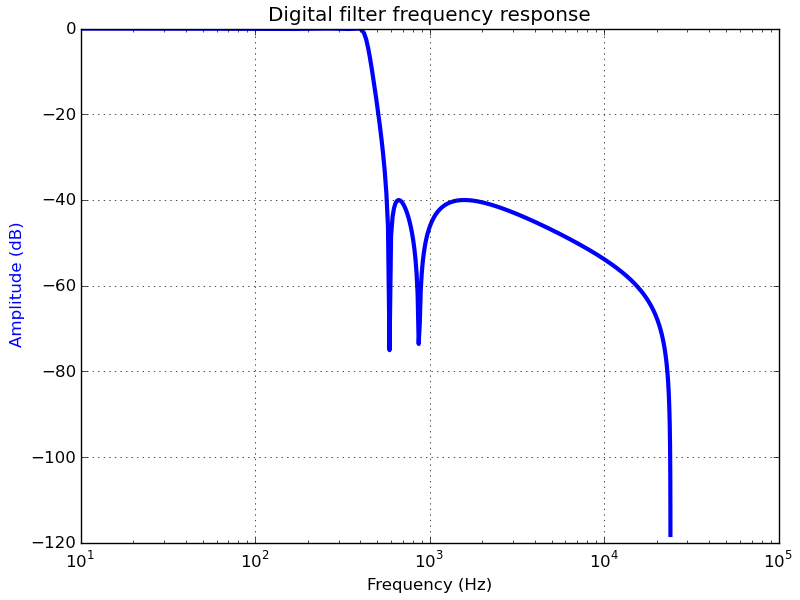
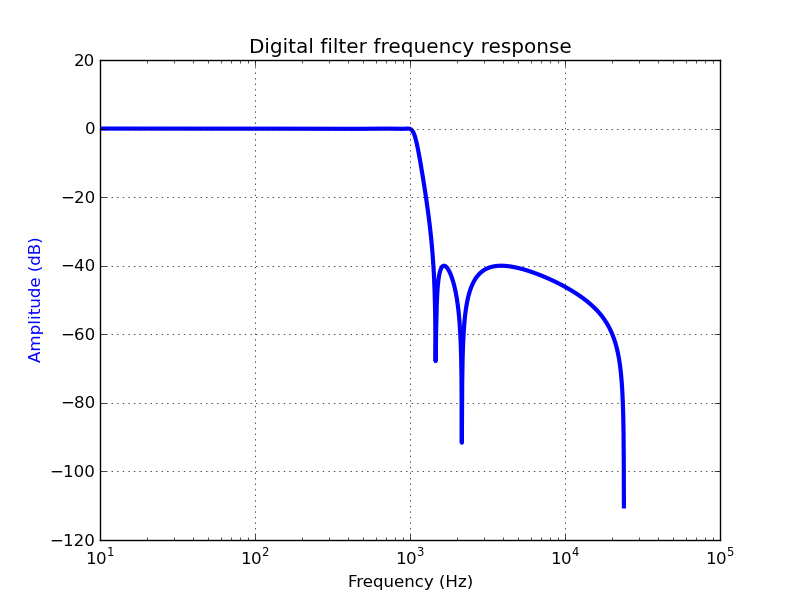
Mas cambios

Changed region(s): [[0.0, 0.0, 1.0, 0.99], [0.6562, 0.45, 0.7812, 0.84], [0.6562, 0.36, 0.8125, 0.51]]

diff --git a/utils/figura_filtro.py b/utils/figura_filtro.py
@@ -3,8 +3,8 @@ import matplotlib.pyplot as plt
 import numpy
 
 FS = 48000.
-BANDPASS = 400.
-STOPBAND = 600.
+BANDPASS = 1000.
+STOPBAND = 1500.
 
 b, a = iirdesign(wp = BANDPASS/(FS/2), ws = STOPBAND/(FS/2), gpass=0.1, gstop=40)
 h, w = freqz(b, a, worN=2000)
@@ -22,7 +22,7 @@ plt.ylabel('Amplitude (dB)', color='b')
 plt.xlabel('Frequency (Hz)')
 plt.grid()
 plt.legend()
-plt.show()
+plt.savefig('imagen_filtro.png', dpi=100)
 
 
        
